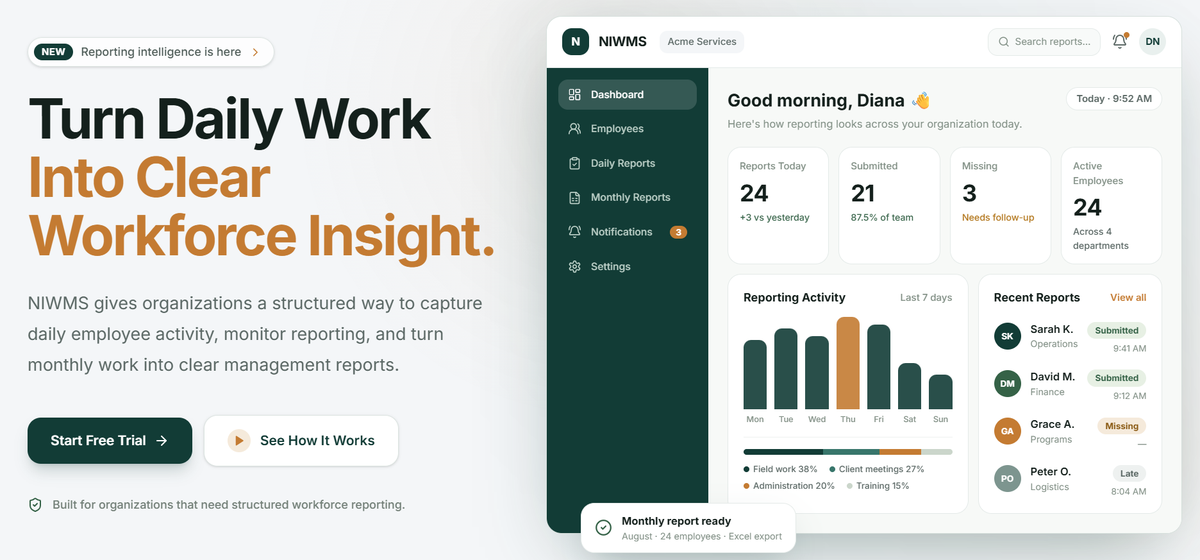
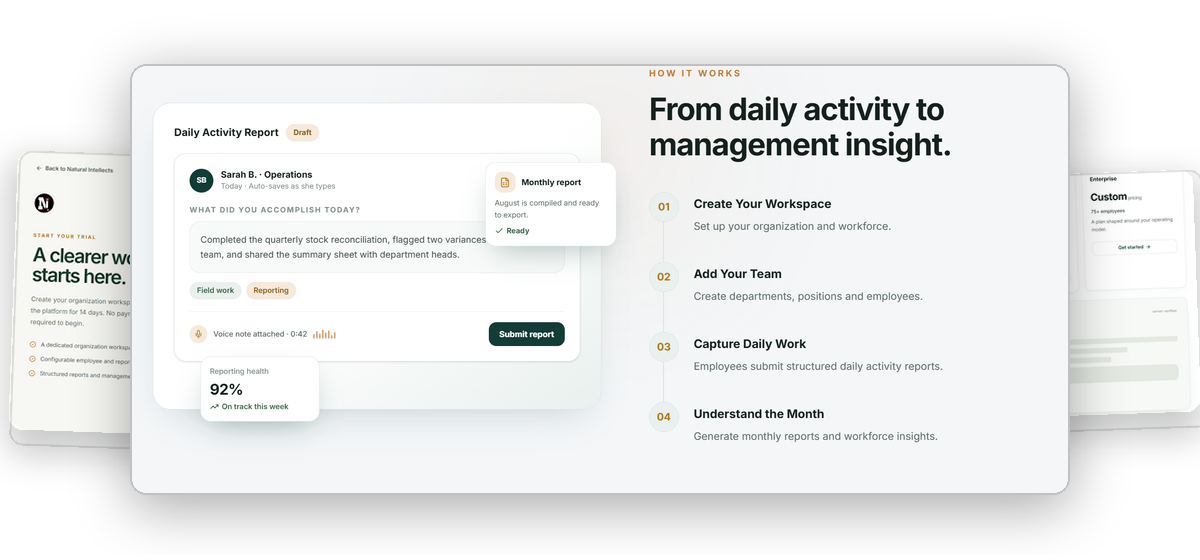
DISMs renamed to DMS; NIWMS card gets the 3-screen fan; bigger card visuals
- DMS rename (client request): product slug disms -> dms and display name
  DISMs -> DMS across data/site.ts (products, capability project lists,
  timeline copy) and data/docs.ts (doc slug, label, body copy). Old URLs
  keep working via redirects: /products/disms -> /products/dms and
  /docs/products/disms -> /docs/products/dms (307). Sitemap regenerates
  with the new slugs automatically.
- NIWMS card: rebuilt as the same staggered-screen fan used on the DMS
  card, from the best 3 of the 4 client-supplied screens (product story
  hero, pricing, trial signup; the fourth upload is a pixel-identical
  retake of the signup screen). niwms-og.png regenerated at the same
  path; ?v=2 query busts caches of the earlier single-screenshot asset.
- Bigger visuals for all image cards: composite canvases recomposed with
  ~8px margins (heroes 700-940px wide vs 680 before), card face widened
  w-[64%] -> w-[68%] (stack + page-turn overlay kept in sync), image
  plate padding p-8 -> p-4 and img max-h raised to 22/26rem. DMS visual
  re-exported as dms-og.png (old disms-og.png removed).

Verified: lint clean, build passes (6 product paths incl. dms), old
URLs 307 to new, /products/dms 200, both fans inspected on desktop
light + dark and mobile 390px, rotation cycle unaffected, zero console
errors.

diff --git a/data/site.ts b/data/site.ts
@@ -44,8 +44,8 @@ export const services = [
 ] as const
 
 export const capabilities = [
-  { slug: 'digital-products', number: '01', title: 'Digital Products', description: 'From first principle to useful interface.', longDescription: 'We shape focused digital products around real needs, clear journeys and room to evolve.', projects: ['smart-ride', 'nisms', 'house-for-rent', 'disms', 'ticketug'], approach: ['Discover the real constraint', 'Design the simplest useful system', 'Build, learn and evolve'] },
-  { slug: 'business-systems', number: '02', title: 'Business Systems', description: 'Clarity and leverage for how organizations work.', longDescription: 'We make complex operations more visible, structured and ready for better decisions.', projects: ['nisms', 'disms', 'niwms'], approach: ['Map how work actually happens', 'Connect information and action', 'Create durable operating clarity'] },
+  { slug: 'digital-products', number: '01', title: 'Digital Products', description: 'From first principle to useful interface.', longDescription: 'We shape focused digital products around real needs, clear journeys and room to evolve.', projects: ['smart-ride', 'nisms', 'house-for-rent', 'dms', 'ticketug'], approach: ['Discover the real constraint', 'Design the simplest useful system', 'Build, learn and evolve'] },
+  { slug: 'business-systems', number: '02', title: 'Business Systems', description: 'Clarity and leverage for how organizations work.', longDescription: 'We make complex operations more visible, structured and ready for better decisions.', projects: ['nisms', 'dms', 'niwms'], approach: ['Map how work actually happens', 'Connect information and action', 'Create durable operating clarity'] },
   { slug: 'software-platforms', number: '03', title: 'Software Platforms', description: 'Durable foundations for ideas with room to grow.', longDescription: 'We build software foundations that support useful products without unnecessary complexity.', projects: ['smart-ride', 'nisms', 'house-for-rent', 'lyn'], approach: ['Start with a coherent foundation', 'Prioritize useful capability', 'Leave room for scale'] },
   { slug: 'technology-exploration', number: '04', title: 'Technology Exploration', description: 'Research directions for a changing world.', longDescription: 'Our lab holds ambitious explorations across mobility, education, sustainability and digital independence.', projects: ['elon-project', 'ni-socket', 'aqua-ni', 'state-schools-international', 'prizon', 'lyn'], approach: ['Question the default', 'Explore responsibly', 'Carry the useful idea forward'] },
 ] as const
@@ -54,7 +54,7 @@ export const products = [
   { slug: 'smart-ride', name: 'Smart Ride', url: 'https://smartrideug.vercel.app', status: 'ACTIVE' as Status, category: 'Digital product / Software platform', overview: 'A practical mobility platform exploring smarter, more accessible transport experiences.', problem: 'Mobility systems can be difficult to navigate and improve when information and experience are fragmented.', solution: 'Smart Ride explores a clearer digital layer for more useful transport experiences.', capabilities: ['Mobility experience', 'Digital product thinking'], technologies: ['Product design', 'Software platform'] },
   { slug: 'nisms', name: 'NISMS', status: 'ACTIVE' as Status, category: 'Business system / Digital product', overview: 'Digital systems that help organizations bring structure, visibility and intelligence to operations.', problem: 'Organizations need clearer ways to understand and coordinate how work moves.', solution: 'NISMS is being developed as a structured digital system for operational clarity.', capabilities: ['Operational visibility', 'Information systems'], technologies: ['Business systems', 'Digital platforms'] },
   { slug: 'house-for-rent', name: 'House For Rent', status: 'ACTIVE' as Status, category: 'Digital product / Software platform', overview: 'A focused property platform connecting people with clearer ways to find and manage housing.', problem: 'Finding and managing housing can be fragmented and unclear.', solution: 'House For Rent explores a more direct, focused property experience.', capabilities: ['Property discovery', 'Digital marketplace'], technologies: ['Product design', 'Software platform'] },
-  { slug: 'disms', name: 'DISMs', status: 'UPCOMING' as Status, category: 'Business system / Digital product', overview: 'A developing direction for digital information and management systems.', problem: 'Growing organizations need information systems that remain useful as complexity increases.', solution: 'DISMs is an upcoming direction for practical digital management.', capabilities: ['Information management', 'Organizational systems'], technologies: ['Business systems', 'Research and development'] },
+  { slug: 'dms', name: 'DMS', status: 'UPCOMING' as Status, category: 'Business system / Digital product', overview: 'A developing direction for digital information and management systems.', problem: 'Growing organizations need information systems that remain useful as complexity increases.', solution: 'DMS is an upcoming direction for practical digital management.', capabilities: ['Information management', 'Organizational systems'], technologies: ['Business systems', 'Research and development'] },
   { slug: 'ticketug', name: 'TicketUG', status: 'IN DEVELOPMENT' as Status, category: 'Digital ticketing / Event management', overview: 'A digital event platform for discovery, ticket sales, QR verification and organized entry.', problem: 'Event organizers need a clearer way to promote events, manage ticket orders and control attendance.', solution: 'TicketUG connects event discovery with digital ticket issuance, QR-based verification, organizer dashboards and event operations.', capabilities: ['Digital products', 'Event operations'], technologies: ['Ticketing platform', 'QR verification', 'Analytics'] },
   { slug: 'niwms', name: 'NIWMS', url: 'https://niwork-management-system.vercel.app/', status: 'ACTIVE' as Status, category: 'Workforce management platform', overview: 'Natural Intellects Workforce Management System — a centralized platform that helps organizations manage employees, track daily work activity and turn monthly reporting into clear workforce insight.', problem: 'Employee activity scattered across chats, papers and spreadsheets is slow to collect, hard to audit and easy to misread as teams grow.', solution: 'NIWMS captures daily employee reports, monitors submissions across the organization and compiles structured monthly reports — one clear view of workforce activity.', capabilities: ['Employee management', 'Daily activity reports', 'Monthly reporting', 'Workforce dashboards'], technologies: ['Web platform', 'Reporting dashboard', 'Excel export'] },
 ] as const
@@ -90,7 +90,7 @@ export const timeline = [
   ['2023', 'FOUNDATION / EARLY VISION', 'Natural Intellects begins exploring ambitious technology and innovation concepts.'],
   ['2023+', 'EARLY INNOVATION', 'Projects such as ELON, PRIZ~ON, LYN, State Schools International, Aqua NI and NI Socket represent broader technological ambitions.'],
   ['2026', 'FORMAL REGISTRATION', 'Natural Intellects becomes officially registered.'],
-  ['2026+', 'PRODUCT DEVELOPMENT', 'Focus expands around practical digital products and platforms including Smart Ride, NISMS, House For Rent and upcoming DISMs.'],
+  ['2026+', 'PRODUCT DEVELOPMENT', 'Focus expands around practical digital products and platforms including Smart Ride, NISMS, House For Rent and upcoming DMS.'],
 ] as const
 
 export function findStatus(slug: string) { return products.find((p) => p.slug === slug)?.status }

diff --git a/data/docs.ts b/data/docs.ts
@@ -11,10 +11,10 @@ export const docSections: DocSection[] = [
   { slug: 'engineering/payments', label: 'Payments', group: 'Engineering', summary: 'Payment state requires verification, not assumption.', body: ['The general payment pattern is Customer → Payment Provider → Verified Webhook → NI Backend → Transaction State → Service, Ticket or Entitlement.', 'A redirect is not proof of successful payment when the system requires verified payment confirmation.'] },
   { slug: 'engineering/security', label: 'Security', group: 'Engineering', summary: 'Security principles without publishing sensitive operational details.', body: ['Public documentation can explain boundaries, verification and ownership checks. It must not publish credentials, connection strings, webhook secrets or private operational data.'] },
   { slug: 'engineering/deployment', label: 'Deployment', group: 'Engineering', summary: 'The infrastructure vocabulary used across NI work.', body: ['Depending on the project, NI work uses Vercel, Railway, EAS, PostgreSQL or Neon, Supabase and Git/GitHub workflows. Each project page must state its actual deployment evidence separately.'] },
-  { slug: 'products-and-systems', label: 'Products & systems', group: 'Products & Systems', summary: 'Technical pages for verified NI work.', body: ['Products and systems are documented from repository evidence and supplied specifications. Planned work stays separate from implemented functionality.'], bullets: ['NISMS', 'DISMs', 'TicketUG', 'Smart Ride', 'House For Rent'] },
+  { slug: 'products-and-systems', label: 'Products & systems', group: 'Products & Systems', summary: 'Technical pages for verified NI work.', body: ['Products and systems are documented from repository evidence and supplied specifications. Planned work stays separate from implemented functionality.'], bullets: ['NISMS', 'DMS', 'TicketUG', 'Smart Ride', 'House For Rent'] },
   { slug: 'products/smart-ride', label: 'Smart Ride', group: 'Products & Systems', status: 'ACTIVE', summary: 'Mobility and delivery work spanning rides, food, items and shopping.', body: ['Smart Ride is documented as a Ugandan mobility and delivery platform covering Ride, Food Delivery, Item Delivery, Shopping and Deliver Items.', 'The documented role direction includes Smart Boda Rider, Smart Car Driver and Delivery Personnel. Current implementation and deployment status should be verified against the live project before making stronger claims.'], bullets: ['Official link: smartrideug.vercel.app', 'Direction includes controlled contact exposure and offline tolerance.'] },
   { slug: 'products/nisms', label: 'NISMS', group: 'Products & Systems', status: 'ACTIVE', summary: 'A school management and operational information system direction.', body: ['NISMS is documented as a school management platform with school-level data boundaries, platform roles and school roles.', 'The supplied context identifies a Next.js frontend direction, Express, Prisma and PostgreSQL. Feature status must remain separated between implemented and broader planned modules.'], bullets: ['School-level boundaries', 'Platform and school roles', 'Parent access, reports, CMS/gallery, news and Website Hub remain status-sensitive areas.'] },
-  { slug: 'products/disms', label: 'DISMs', group: 'Products & Systems', status: 'UPCOMING', summary: 'UFMI-oriented digital information and management systems.', body: ['DISMs is documented as an upcoming digital information and management direction. Its verified scope includes registered users, regional information, registered movies and a Movie Distributor category or portal with distribution reporting.'], bullets: ['Region, District, City/Town and Country fields', 'International members', 'Movie Distributor role and reporting'] },
+  { slug: 'products/dms', label: 'DMS', group: 'Products & Systems', status: 'UPCOMING', summary: 'UFMI-oriented digital information and management systems.', body: ['DMS is documented as an upcoming digital information and management direction. Its verified scope includes registered users, regional information, registered movies and a Movie Distributor category or portal with distribution reporting.'], bullets: ['Region, District, City/Town and Country fields', 'International members', 'Movie Distributor role and reporting'] },
   { slug: 'products/ticketug', label: 'TicketUG', group: 'Products & Systems', status: 'IN DEVELOPMENT', summary: 'Event discovery, ticketing, QR issuance and organized entry.', body: ['TicketUG is documented with a Next.js 16 App Router frontend, NestJS API, PostgreSQL in a ticketug schema, raw SQL migrations and Neon Auth.', 'The documented workflow includes events, venues, ticket types, inventory, orders, verified-payment ticket issuance, secure QR tickets, event staff and atomic check-in. Provider, settlement and production verification claims remain evidence-sensitive.'], bullets: ['QR tickets', 'Event staff and check-in', 'Camera scanning and manual fallback in the documented state'] },
   { slug: 'products/house-for-rent', label: 'House For Rent', group: 'Products & Systems', status: 'ACTIVE', summary: 'A property platform for listings and controlled contact workflows.', body: ['House For Rent is documented as a real-estate platform involving landlords or brokers, property listings, controlled contact workflows and commission or settlement logic.', 'The documented technology direction includes NestJS, Prisma, PostgreSQL or Supabase, web and mobile applications, and role-based authentication. Current status should be verified before publication as production fact.'] },
   { slug: 'innovation/overview', label: 'Innovation philosophy', group: 'Innovation', summary: 'How concepts move without being overstated.', body: ['A named concept is not automatically a product. A design is not automatically a deployment. A specification is not automatically a production system.', 'Status labels such as Concept, R&D, Upcoming and In Development keep exploration distinct from commercial products.'] },

diff --git a/components/products-showcase.tsx b/components/products-showcase.tsx
@@ -16,11 +16,13 @@ const productVisuals: Partial<Record<string, string>> = {
   // honest filename (house-for-rent-logo.png) to prevent future mix-ups.
   'smart-ride': '/work-done/smart-ride-og.png',
   'house-for-rent': '/work-done/house-for-rent-logo.png',
-  // NIWMS interface screenshot supplied by the client (landing + dashboard view).
-  'niwms': '/work-done/niwms-og.png',
-  // DISMs / UFMI DIMS registration-flow screens supplied by the client
+  // NIWMS interface screens supplied by the client (product story, pricing,
+  // trial signup — best 3 of 4) composited as one fan visual; ?v=2 busts the
+  // cache of the earlier single-screenshot asset at the same path.
+  'niwms': '/work-done/niwms-og.png?v=2',
+  // DMS / UFMI DIMS registration-flow screens supplied by the client
   // (join path, business details, review & submit) composited as one visual.
-  'disms': '/work-done/disms-og.png',
+  'dms': '/work-done/dms-og.png',
 }
 
 function monogram(name: string) {
@@ -35,7 +37,7 @@ function ProductCardFace({ item, index, image, isActive }: { item: Product; inde
   return <div className="relative w-full overflow-hidden rounded-sm border border-line/80 bg-background/95 p-2 shadow-[0_24px_80px_rgba(0,0,0,.6)] sm:p-3">
     <div className="flex items-center gap-2 border-b border-line pb-2"><span className={`size-1.5 rounded-full ${item.status === 'ACTIVE' ? 'bg-accent' : 'bg-line'}`} /><span className="size-1.5 rounded-full bg-line" /><span className="size-1.5 rounded-full bg-line" /><span className="ml-2 truncate font-mono text-[9px] uppercase tracking-widest text-muted">{item.slug} / {item.status}</span></div>
     {image ? (
-      <div className="flex min-h-[15rem] items-center justify-center overflow-hidden bg-panel p-5 sm:min-h-[22rem] sm:p-8"><img src={image} alt={isActive ? `${item.name} product visual` : ''} className="max-h-[20rem] max-w-full object-contain" /></div>
+      <div className="flex min-h-[15rem] items-center justify-center overflow-hidden bg-panel p-3 sm:min-h-[22rem] sm:p-4"><img src={image} alt={isActive ? `${item.name} product visual` : ''} className="max-h-[22rem] max-w-full object-contain sm:max-h-[26rem]" /></div>
     ) : (
       <div className="grid-lines flex min-h-[15rem] flex-col items-start justify-between bg-panel p-5 sm:min-h-[22rem] sm:p-8"><span className="eyebrow">NI system sheet</span><div className="font-mono text-6xl tracking-tight text-accent sm:text-8xl">{monogram(item.name)}</div><p className="font-mono text-[9px] uppercase tracking-[.18em] text-muted">Interface preview not published · {item.category}</p></div>
     )}
@@ -104,7 +106,7 @@ export function ProductsShowcase() {
                 const isActive = distance === 0
                 const visibleDistance = Math.min(distance, 3)
                 return <div key={item.slug} aria-hidden={!isActive} className={`absolute inset-0 flex items-center justify-center ${reducedMotion ? 'transition-opacity duration-200' : 'transition-[transform,opacity,filter] duration-[800ms] ease-[cubic-bezier(.22,.8,.24,1)] will-change-[transform,opacity,filter]'}`} style={{ zIndex: isActive ? 20 : 10 - visibleDistance, opacity: isActive ? 1 : visibleDistance === 1 ? .58 : visibleDistance === 2 ? .3 : .14, transform: `translate(${isActive ? 0 : visibleDistance % 2 ? -5 : 5}%, ${isActive ? 0 : visibleDistance * 3}px) scale(${isActive ? 1 : 1 - visibleDistance * .055}) rotate(${isActive ? 0 : visibleDistance % 2 ? -1.2 : 1.2}deg)`, filter: isActive ? 'none' : `blur(${visibleDistance * 1.5}px) grayscale(${visibleDistance * 18}%)`, transformOrigin: isActive ? 'center center' : `${visibleDistance % 2 ? '42%' : '58%'} center`, transitionDelay: reducedMotion ? '0ms' : `${Math.max(0, 3 - visibleDistance) * 35}ms`, pointerEvents: isActive ? undefined : 'none' }}>
-                  <div className="w-[78%] sm:w-[64%]"><ProductCardFace item={item} index={index} image={image} isActive={isActive} /></div>
+                  <div className="w-[78%] sm:w-[68%]"><ProductCardFace item={item} index={index} image={image} isActive={isActive} /></div>
                 </div>
               })}
               {flip && (() => {
@@ -112,7 +114,7 @@ export function ProductsShowcase() {
                 const image = productVisuals[item.slug]
                 return <div key={`turn-${flip.nonce}`} aria-hidden="true" className="pointer-events-none absolute inset-0 z-40" style={{ perspective: '1800px' }}>
                   <div className="absolute inset-0 flex items-center justify-center">
-                    <div className={`relative w-[78%] transform-gpu will-change-transform sm:w-[64%] ${flip.dir === 1 ? 'ni-page-open' : 'ni-page-close'}`}>
+                    <div className={`relative w-[78%] transform-gpu will-change-transform sm:w-[68%] ${flip.dir === 1 ? 'ni-page-open' : 'ni-page-close'}`}>
                       <ProductCardFace item={item} index={flip.page} image={image} isActive />
                       <div className={`ni-page-shade ${flip.dir === 1 ? 'ni-page-shade--open' : 'ni-page-shade--close'}`} />
                     </div>

diff --git a/app/products/[slug]/page.tsx b/app/products/[slug]/page.tsx
@@ -9,4 +9,4 @@ import { niOg } from '@/lib/og'
 
 export function generateStaticParams() { return allSlugs().products.map((slug) => ({ slug })) }
 export async function generateMetadata({ params }: { params: Promise<{ slug: string }> }): Promise<Metadata> { const { slug } = await params; const p = findProject(slug); if (!p) return {}; return { title: `${p.name} — Products & systems`, description: `${p.overview} Status: ${p.status}.`, alternates: { canonical: `/products/${p.slug}` }, openGraph: niOg({ title: `${p.name} — Natural Intellects`, description: p.overview, url: `/products/${p.slug}` }) } }
-export default async function ProductPage({ params }: { params: Promise<{ slug: string }> }) { const { slug } = await params; if (slug === 'deep-press') redirect('/foundation/deep-press'); const p = findProject(slug); if (!p) notFound(); return <main id="main"><SiteNav /><article className="mx-auto max-w-7xl px-6 pb-24 pt-40 lg:px-10 lg:pt-52"><Link href="/#products" className="font-mono text-xs uppercase tracking-widest text-muted hover:text-accent"><ArrowLeft className="mr-2 inline size-3" /> Back to products</Link><div className="mt-16 grid gap-14 lg:grid-cols-[.8fr_1.2fr]"><div><div className="eyebrow">Product / {p.category}</div><h1 className="mt-7 text-6xl tracking-[-.07em] lg:text-9xl">{p.name}</h1><div className="mt-8"><Status value={p.status} /></div></div><div className="max-w-2xl"><p className="text-2xl leading-snug lg:text-4xl">{p.overview}</p><div className="mt-16 grid gap-10 border-t border-line pt-8 sm:grid-cols-2"><div><h2 className="font-mono text-xs uppercase tracking-widest text-accent">The problem</h2><p className="mt-4 leading-relaxed text-muted">{p.problem}</p></div><div><h2 className="font-mono text-xs uppercase tracking-widest text-accent">Our direction</h2><p className="mt-4 leading-relaxed text-muted">{p.solution}</p></div></div><div className="mt-16 border-t border-line pt-8"><h2 className="font-mono text-xs uppercase tracking-widest text-accent">Capabilities</h2><div className="mt-5 flex flex-wrap gap-3">{p.capabilities.map((x) => <span key={x} className="border border-line px-4 py-3 text-sm text-muted">{x}</span>)}</div></div><Link href="/contact" className="mt-16 inline-flex items-center gap-3 border-b border-foreground/50 pb-3 hover:border-accent hover:text-accent">Start a conversation <ArrowUpRight className="size-4" /></Link></div></div></article><footer className="border-t border-line px-6 py-8 font-mono text-[10px] uppercase tracking-widest text-muted lg:px-10">{projectName(slug)} / Natural Intellects</footer></main> }
+export default async function ProductPage({ params }: { params: Promise<{ slug: string }> }) { const { slug } = await params; if (slug === 'deep-press') redirect('/foundation/deep-press'); if (slug === 'disms') redirect('/products/dms'); const p = findProject(slug); if (!p) notFound(); return <main id="main"><SiteNav /><article className="mx-auto max-w-7xl px-6 pb-24 pt-40 lg:px-10 lg:pt-52"><Link href="/#products" className="font-mono text-xs uppercase tracking-widest text-muted hover:text-accent"><ArrowLeft className="mr-2 inline size-3" /> Back to products</Link><div className="mt-16 grid gap-14 lg:grid-cols-[.8fr_1.2fr]"><div><div className="eyebrow">Product / {p.category}</div><h1 className="mt-7 text-6xl tracking-[-.07em] lg:text-9xl">{p.name}</h1><div className="mt-8"><Status value={p.status} /></div></div><div className="max-w-2xl"><p className="text-2xl leading-snug lg:text-4xl">{p.overview}</p><div className="mt-16 grid gap-10 border-t border-line pt-8 sm:grid-cols-2"><div><h2 className="font-mono text-xs uppercase tracking-widest text-accent">The problem</h2><p className="mt-4 leading-relaxed text-muted">{p.problem}</p></div><div><h2 className="font-mono text-xs uppercase tracking-widest text-accent">Our direction</h2><p className="mt-4 leading-relaxed text-muted">{p.solution}</p></div></div><div className="mt-16 border-t border-line pt-8"><h2 className="font-mono text-xs uppercase tracking-widest text-accent">Capabilities</h2><div className="mt-5 flex flex-wrap gap-3">{p.capabilities.map((x) => <span key={x} className="border border-line px-4 py-3 text-sm text-muted">{x}</span>)}</div></div><Link href="/contact" className="mt-16 inline-flex items-center gap-3 border-b border-foreground/50 pb-3 hover:border-accent hover:text-accent">Start a conversation <ArrowUpRight className="size-4" /></Link></div></div></article><footer className="border-t border-line px-6 py-8 font-mono text-[10px] uppercase tracking-widest text-muted lg:px-10">{projectName(slug)} / Natural Intellects</footer></main> }

diff --git a/app/docs/[...slug]/page.tsx b/app/docs/[...slug]/page.tsx
@@ -1,8 +1,8 @@
 import type { Metadata } from 'next'
-import { notFound } from 'next/navigation'
+import { notFound, redirect } from 'next/navigation'
 import { DocsArticle, DocsShell } from '@/components/docs-shell'
 import { docSections, getDoc } from '@/data/docs'
 
 export function generateStaticParams() { return docSections.map((doc) => ({ slug: doc.slug.split('/') })) }
 export async function generateMetadata({ params }: { params: Promise<{ slug: string[] }> }): Promise<Metadata> { const { slug } = await params; const doc = getDoc(slug.join('/')); if (!doc) return {}; return { title: `${doc.label} — Docs`, description: doc.summary } }
-export default async function DocPage({ params }: { params: Promise<{ slug: string[] }> }) { const { slug } = await params; const activeSlug = slug.join('/'); if (!getDoc(activeSlug)) notFound(); return <DocsShell activeSlug={activeSlug}><DocsArticle slug={activeSlug} /></DocsShell> }
+export default async function DocPage({ params }: { params: Promise<{ slug: string[] }> }) { const { slug } = await params; const activeSlug = slug.join('/'); if (activeSlug === 'products/disms') redirect('/docs/products/dms'); if (!getDoc(activeSlug)) notFound(); return <DocsShell activeSlug={activeSlug}><DocsArticle slug={activeSlug} /></DocsShell> }
